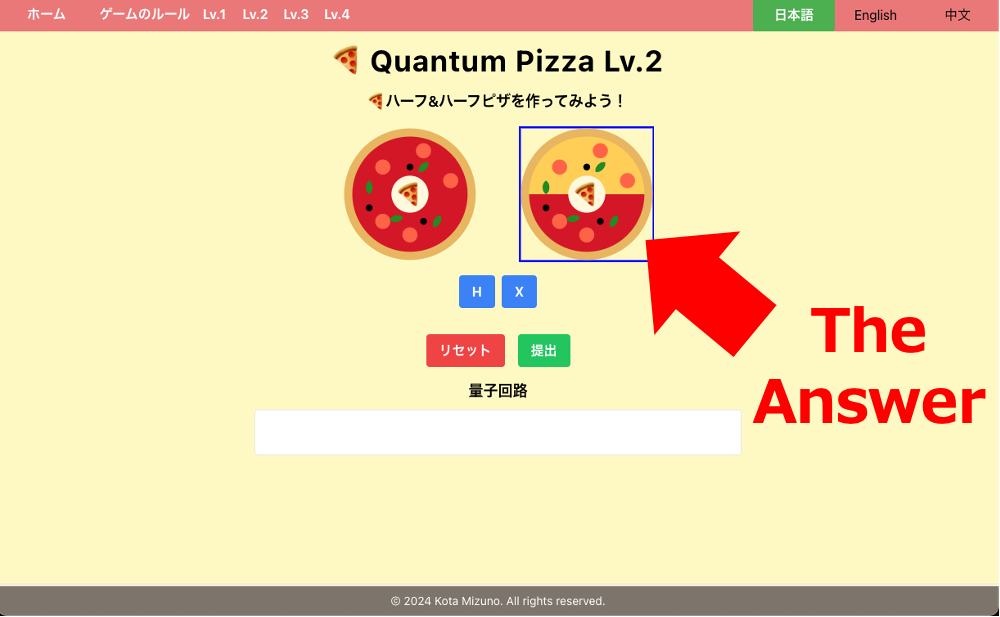
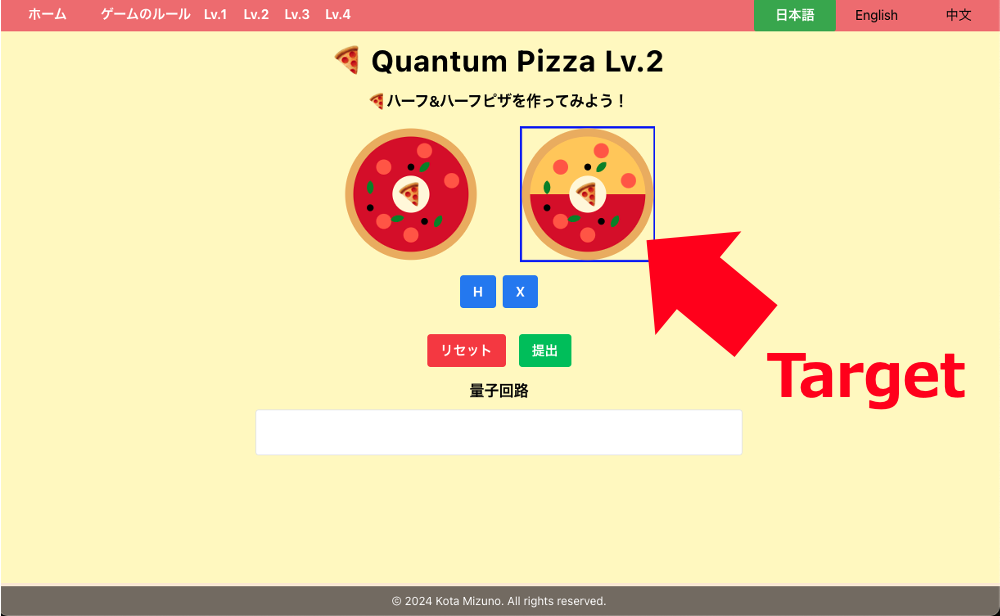
[fix]英語ように画像の修正

diff --git a/src/trans_resouces/trans_data.js b/src/trans_resouces/trans_data.js
@@ -157,7 +157,7 @@ const resources = {
               </ruby>
               です！
               <br></br>
-              プレイしてくださり、ありがとうございました！😆`,
+              プレイしてくださり、ありがとうございました！ 😆`,
         button_back_home: "ホームに戻る",
       },
     },
@@ -175,7 +175,7 @@ const resources = {
         game_rule_title: "Rules & Instructions",
         game_goal: "Goal",
         game_goal_description:
-          "Clear all levels by using quantum gates to create pizza toppings that match the ones shown on the right.",
+          "Clear all levels by using quantum gates to create pizza toppings that match the target shown on the right.",
         game_play_method: "How to Play",
         game_play_steps: [
           "Press a button to add a quantum gate to change the pizza toppings.",
@@ -183,9 +183,8 @@ const resources = {
           "When matched, proceed to the next level.",
         ],
         rewards: "Reward",
-        rewards_description:
-          "You are a Quatum Pizza Master!👀",
-        game_rule_tips: "Hint",
+        rewards_description: "You are a Quatum Pizza Master!👀",
+        game_rule_tips: "Tip",
         tips_description:
           "The pizza toppings will change if you adjust the types and order of quantum gates.  Try various combinations!",
         game_start_button: "Start Game",
@@ -291,8 +290,7 @@ const resources = {
         },
       },
       congrats_page: {
-        congrats_message: `Congratulations on clearing all the problems! <br>
-              You are a great quantum pizza master! <br><br>
+        congrats_message: `You are a great quantum pizza master! <br><br>
               Thank you for playing! 😆`,
         button_back_home: "Back to Home",
       },

diff --git a/src/components/QuantumPizzaGame_lv4.js b/src/components/QuantumPizzaGame_lv4.js
@@ -436,6 +436,8 @@ const QuantumPizzaGame_lv4 = () => {
     ) {
       const imageWidth_1 = isMobile ? "100%" : "50%";
       const imageWidth_2 = isMobile ? "100%" : "70%";
+      const imageUrl =
+        language != "ja" ? "/bell_image_2_or.png" : "/bell_image_2.png";
       Swal.fire({
         title: t("problem_common.swal.confirm.correct_title"),
         text: t("problem_common.swal.confirm.correct_message_last"),
@@ -496,7 +498,7 @@ const QuantumPizzaGame_lv4 = () => {
                     ${t("lv4.swal.CX_gate.description_2")}
                   </p>
                   <div class="xgate-image-container" style="display: flex; justify-content: center;">
-                    <img src="/bell_image_2.png" alt="Xゲート" class="xgate-image" style="width: ${imageWidth_2}; max-width: 100%; height: auto;" />
+                    <img src=${imageUrl} alt="Xゲート" class="xgate-image" style="width: ${imageWidth_2}; max-width: 100%; height: auto;" />
                   </div>
                 </div>
 
